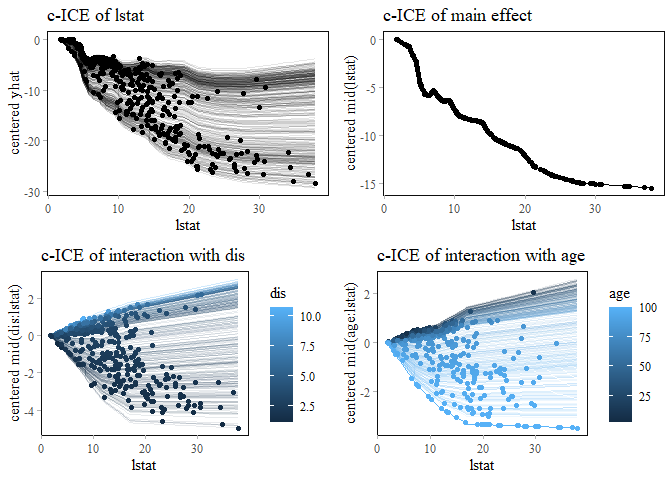
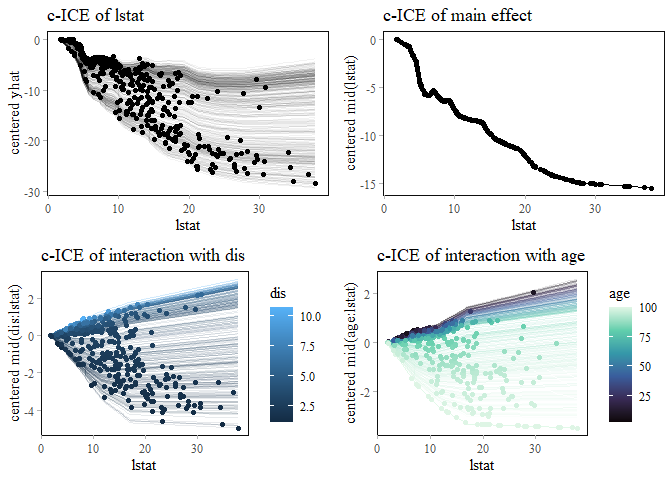
version 0.4.7 - small updates including adding plot.mid.breakdown

diff --git a/README.md b/README.md
@@ -121,9 +121,10 @@ and interaction effects.
 # visualize the MID importance of the component functions
 imp <- mid.importance(mid)
 grid.arrange(nrow = 1L,
-  ggmid(imp, max.bars = 16L, type = "dotchart", size = 2) +
+  ggmid(imp, max.bars = 16L, type = "dot", size = 3) +
     ggtitle("importance of variable effects"),
-  ggmid(imp, max.bars = 16L, type = "heatmap") +
+  ggmid(imp, max.bars = 16L, type = "heatmap",
+        scale.palette = c("#2f7a9a")) +
     theme(legend.position = "bottom") +
     ggtitle("heatmap of variable importance")
 )
@@ -138,12 +139,12 @@ value into variable effects.
 ``` r
 # visualize the MID breakdown of the model predictions
 bd1 <- mid.breakdown(mid, data = train[1L, ])
-bd2 <- mid.breakdown(mid, data = train[2L, ])
+bd2 <- mid.breakdown(mid, data = train[9L, ])
 grid.arrange(nrow = 1L,
-  ggmid(bd1, max.bars = 11L, type = "waterfall") +
+  ggmid(bd1, max.bars = 12L, type = "waterfall") +
     ggtitle("breakdown of prediction 1"),
-  ggmid(bd2, max.bars = 11L, type = "waterfall") +
-    ggtitle("breakdown of prediction 2")
+  ggmid(bd2, max.bars = 12L, "waterfall") +
+    ggtitle("breakdown of prediction 9")
 )
 ```
 
@@ -157,7 +158,7 @@ curves by main and interaction effects.
 # visualize the ICE curves of the MID model
 ice <- mid.conditional(mid, "lstat", data = train)
 grid.arrange(
-  ggmid(ice, centered = TRUE, alpha = .1) +
+  ggmid(ice, centered = TRUE, alpha = .05) +
     ggtitle("c-ICE of lstat"),
   ggmid(ice, term = "lstat", centered = TRUE) +
     ggtitle("c-ICE of main effect"),
@@ -166,6 +167,7 @@ grid.arrange(
     ggtitle("c-ICE of interaction with dis"),
   ggmid(ice, term = "lstat:age", centered = TRUE,
         variable.colour = "age", alpha = .1) +
+    scale_colour_viridis_c(option = "G") +
     ggtitle("c-ICE of interaction with age")
 )
 ```
